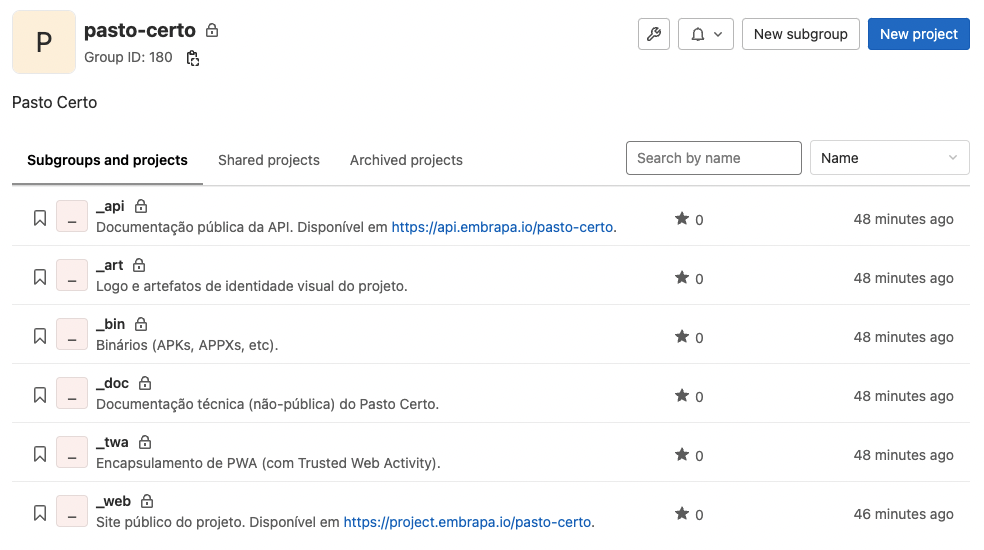
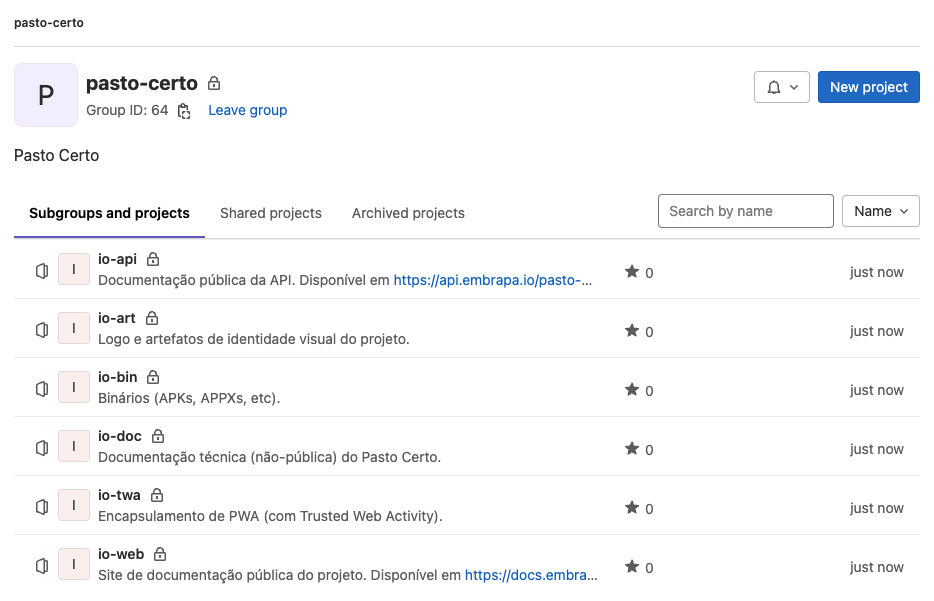
Incluindo o acesso ao GitLab.

diff --git a/docs/project.md b/docs/project.md
@@ -69,15 +69,25 @@ Este repositório (denominado ```io-twa```), quando criado, disponibilizará no 
 
 Esta é uma das formas de encapsular aplicações em JavaScript, mas existem outras como, por exemplo, utilizando o [CapacitorJS](https://capacitorjs.com) ou o [Apache Cordova](https://cordova.apache.org/).
 
-![Repositórios de suporte do projeto]({{ site.baseurl }}/assets/img/project/03.png)
+## Conferindo o GitLab
 
-Quando o usuário opta por todos os repositórios de suporte do projeto, o grupo inicial no [GitLab](https://git.embrapa.io) irá ser inicializado de forma semelhante à imagem acima.
-
-## Equipe do Projeto
-
-Quando o projeto é criado fica disponível como um _card_ na _dashboard_ do usuário. Por meio deste _card_ os **mantenedores do projeto** (do inglês, _maintainers_) poderão gerenciá-lo. Por exemplo, é possível ativar e desativar os repositórios de suporte.
+Quando o projeto é criado fica disponível como um _card_ na _dashboard_ do usuário. Por meio deste _card_ os **mantenedores do projeto** (do inglês, _maintainers_) poderão gerenciá-lo. Por exemplo, é possível ativar e desativar os repositórios de suporte e acessar as páginas de documentação pública do projeto e da API.
 
 ![Menu de contexto do projeto]({{ site.baseurl }}/assets/img/project/04.png)
+
+Por meio do _card_ podemos também acessar o [GitLab da plataforma](https://git.embrapa.io) e vericar se as entidades configuradas já foram criadas pelo autômato _Genesis_ (processo que pode demorar alguns minutos). Um ícone com _angle brackets_ (`< >`) permite o acesso direto ao grupo do projeto.
+
+![Acesso ao grupo do projeto no GitLab]({{ site.baseurl }}/assets/img/project/07.png)
+
+Caso esteja [acessando o GitLab](https://git.embrapa.io) pela primeira vez, atente-se ao seu tipo de usuário na **tela de _login_**. Empregados da Embrapa deverão utilizar a aba "**Embrapa**" na caixa de _login_ com a combinação "m + matrícula" e senha corporativa, enquanto que usuários externos deverão utilizar a aba "**Standard**" com a combinação de e-mail e senha (configurada por meio do e-mail de boas vindas do GitLab).
+
+![Caixa de login no GitLab]({{ site.baseurl }}/assets/img/project/08.png)
+
+Quando o usuário opta por todos os repositórios de suporte do projeto, o grupo inicial no [GitLab](https://git.embrapa.io) irá ser inicializado de forma semelhante à imagem abaixo:
+
+![Repositórios de suporte do projeto]({{ site.baseurl }}/assets/img/project/03.png)
+
+## Equipe do Projeto
 
 Outra funcionalidade disponível é a **gestão da equipe do projeto**. Inicialmente o projeto terá um único membro na equipe, que é o próprio usuário que o criou. Este usuário poderá então adicionar novos usuários que podem ser de dois tipos:
 
